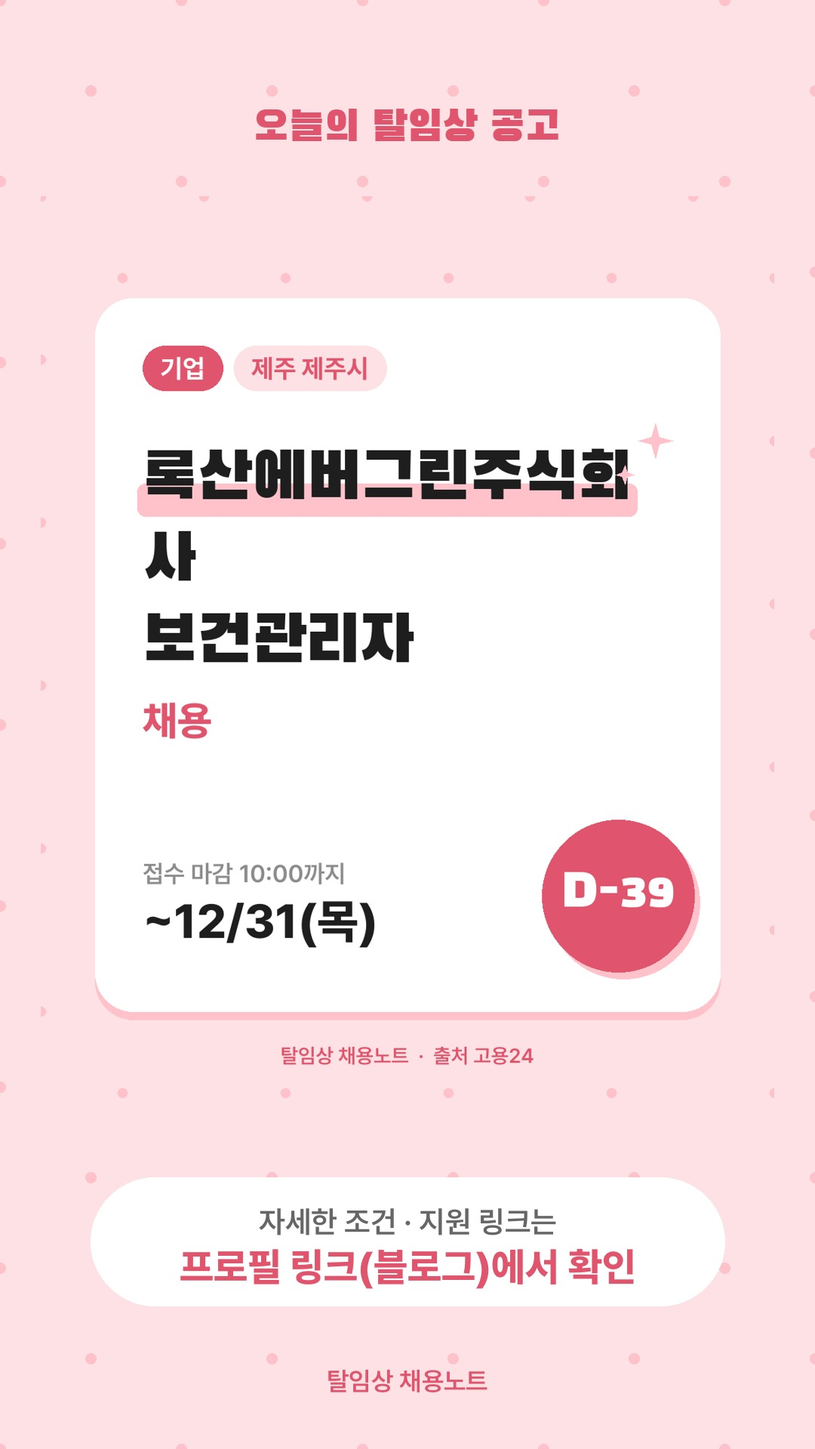
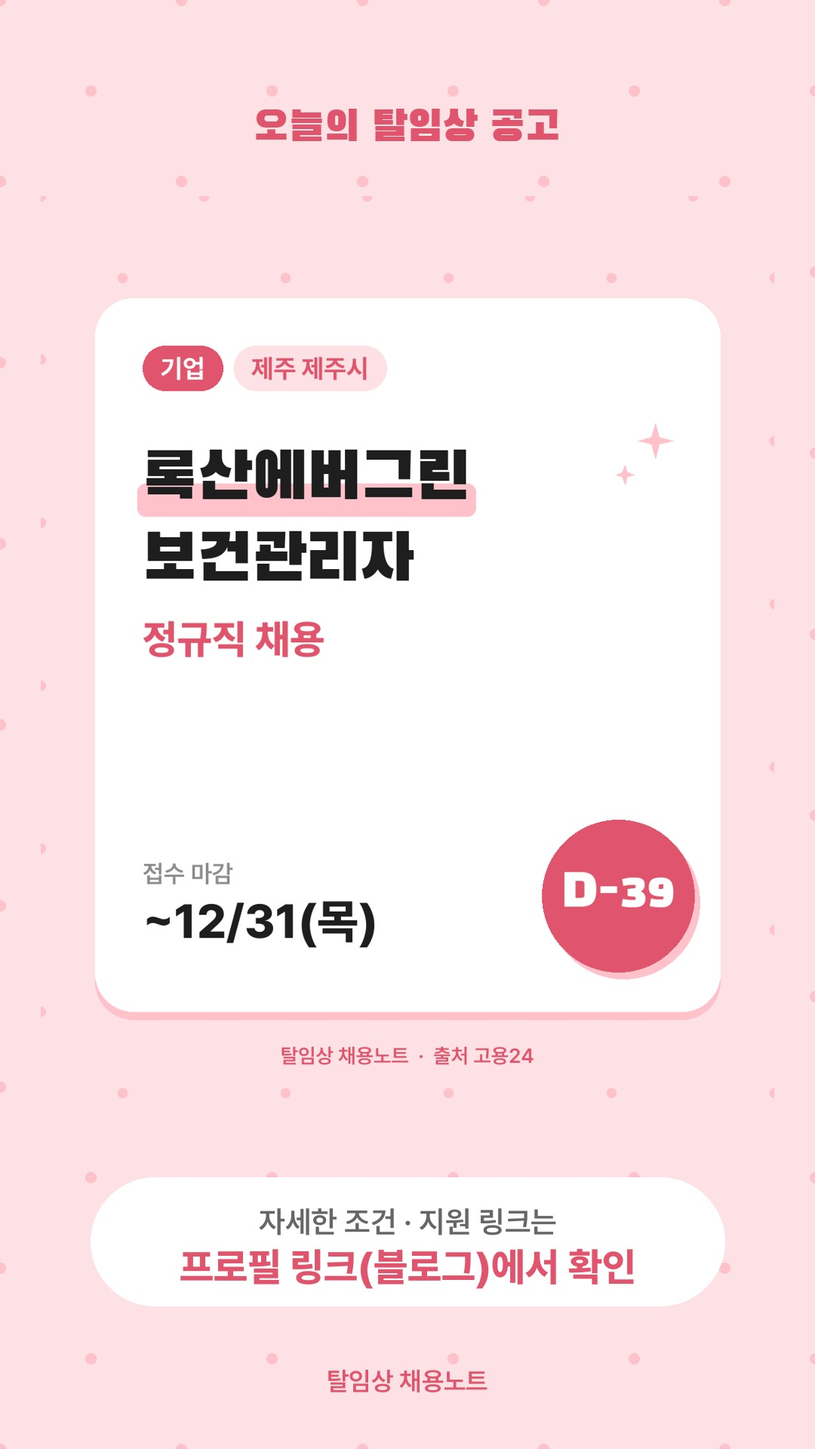
11/22 고용24 공고 상세(고용형태·근무·복지) 반영, 사람인 직접 링크, 썸네일 줄바꿈·기업명 정리, 고용형태 자동 수집
Claude-Session: https://claude.ai/code/session_015ozFBvjxcWAyqLYfTbBGCZ

Changed region(s): [[0.1833, 0.3438, 0.5194, 0.5312], [0.5806, 0.3125, 0.7944, 0.375], [0.3056, 0.5938, 0.4278, 0.625]]

diff --git a/docs/2026-11-22/index.html b/docs/2026-11-22/index.html
@@ -21,7 +21,7 @@ a{color:var(--accent)}ul.days{padding-left:1.2em}
 <h2>📝 오늘 올릴 블로그 글 5개</h2>
 <div class="box"><div class="row"><b>글 1. (사)대한산업보건협회 광주전남지역본부 · 보건관리 간호사</b>
 <span class="muted">카테고리: 탈임상 채용공고 &gt; 산업간호사·기업</span></div>
-<div class="row" style="margin-top:8px"><pre id="pt1" style="flex:1;margin:0">(~11/25) 대한산업보건협회 광주전남지역본부 광주 보건관리국 보건관리 간호사 채용</pre>
+<div class="row" style="margin-top:8px"><pre id="pt1" style="flex:1;margin:0">(~11/25) 대한산업보건협회 광주전남지역본부 광주 보건관리국 보건관리 간호사 계약직 채용</pre>
 <button onclick="copyText('pt1',this)">제목 복사</button></div>
 <details open><summary class="muted" style="margin:10px 0;cursor:pointer">본문 미리보기 (접기)</summary>
 <div id="pb1" class="post"><p>경력무관으로 지원할 수 있는 보건관리 대행기관 간호사 자리입니다. 대한산업보건협회 광주전남지역본부 보건관리국에서 근무합니다.</p><p>&nbsp;</p>
@@ -29,16 +29,19 @@ a{color:var(--accent)}ul.days{padding-left:1.2em}
 <table border="1" cellpadding="8" style="border-collapse:collapse;width:100%">
 <tr><td style="width:30%;background:#f5f5f5"><b>기관</b></td><td>대한산업보건협회 광주전남지역본부</td></tr>
 <tr><td style="width:30%;background:#f5f5f5"><b>부서 · 직무</b></td><td>광주 보건관리국 보건관리 간호사</td></tr>
+<tr><td style="width:30%;background:#f5f5f5"><b>고용 형태</b></td><td>계약직</td></tr>
 <tr><td style="width:30%;background:#f5f5f5"><b>근무지</b></td><td>전남 광산구</td></tr>
 <tr><td style="width:30%;background:#f5f5f5"><b>학력</b></td><td>대졸(2~3년) 이상</td></tr>
 <tr><td style="width:30%;background:#f5f5f5"><b>급여</b></td><td>공고문 확인 필요 (기관 내규)</td></tr>
-<tr><td style="width:30%;background:#f5f5f5"><b>근무 시간</b></td><td>주5일</td></tr>
+<tr><td style="width:30%;background:#f5f5f5"><b>근무 시간</b></td><td>주 5일(월~금) 08:30~17:30</td></tr>
 <tr><td style="width:30%;background:#f5f5f5"><b>접수 기간</b></td><td>11월 18일 ~ 11월 25일 (D-3)</td></tr>
 </table><p>&nbsp;</p>
+<h2>🎁 복리후생</h2><ul><li>4대 보험</li></ul><p>&nbsp;</p>
 <h2>✅ 지원 자격</h2><ul><li>간호사 (경력무관)</li><li>대졸(2~3년) 이상</li></ul><p>&nbsp;</p>
 <h2>💡 한줄 TIP</h2><p>신규도 지원 가능한 보건관리 입문 자리. 11월 25일 마감으로 일정이 촉박.</p><p>&nbsp;</p>
 <h2>🔗 지원하기</h2><ul>
-<li><a href="https://www.work24.go.kr/wk/a/b/1500/empDetailAuthView.do?wantedAuthNo=55608183&amp;infoTypeCd=CSI&amp;infoTypeGroup=tb_workinfogubun">기관 채용 홈페이지에서 바로 지원</a></li>
+<li><a href="https://www.saramin.co.kr/zf_user/jobs/relay/view?rec_idx=55608183">기관 채용 홈페이지에서 바로 지원</a></li>
+<li>접수 방법: 사람인 공고에서 홈페이지 지원 (입사지원양식은 공고에서 다운로드), 11/25 마감</li>
 </ul><p>※ 공고 내용을 요약한 글입니다. 지원 전 원문 공고문을 꼭 확인하세요.</p><p>&nbsp;</p>
 <p>#대한산업보건협회광주전남지역본부채용 #간호사채용 #탈임상 #탈임상간호사 #대한산업보건협회 #보건관리대행 #광주간호사 #산업간호사 #보건관리자 #간호사이직</p></div></details>
 <div class="row"><span class="muted">네이버 글쓰기에 제목 → 본문 순서로 붙여넣으세요</span>
@@ -80,7 +83,7 @@ a{color:var(--accent)}ul.days{padding-left:1.2em}
 <div class="row" style="margin-top:10px;align-items:flex-start"><a href="thumb-02.png" download><img src="thumb-02.png" alt="썸네일 2" style="width:160px;border-radius:8px;border:1px solid var(--line)"></a>
 <span class="muted">썸네일: 이미지를 눌러 저장 후 글 맨 위에 넣으세요</span></div></div><div class="box"><div class="row"><b>글 3. 제일비에스㈜ · 보건관리자</b>
 <span class="muted">카테고리: 탈임상 채용공고 &gt; 산업간호사·기업</span></div>
-<div class="row" style="margin-top:8px"><pre id="pt3" style="flex:1;margin:0">(~12/18) 제일비에스 본사 보건관리자 채용</pre>
+<div class="row" style="margin-top:8px"><pre id="pt3" style="flex:1;margin:0">(~12/18) 제일비에스 본사 보건관리자 정규직 채용</pre>
 <button onclick="copyText('pt3',this)">제목 복사</button></div>
 <details open><summary class="muted" style="margin:10px 0;cursor:pointer">본문 미리보기 (접기)</summary>
 <div id="pb3" class="post"><p>서울 서초구 본사에서 근무하는 보건관리자 공고입니다. 경력 1년 이상이면 학력 제한 없이 지원할 수 있습니다.</p><p>&nbsp;</p>
@@ -88,16 +91,19 @@ a{color:var(--accent)}ul.days{padding-left:1.2em}
 <table border="1" cellpadding="8" style="border-collapse:collapse;width:100%">
 <tr><td style="width:30%;background:#f5f5f5"><b>기관</b></td><td>제일비에스</td></tr>
 <tr><td style="width:30%;background:#f5f5f5"><b>부서 · 직무</b></td><td>본사 보건관리자</td></tr>
-<tr><td style="width:30%;background:#f5f5f5"><b>근무지</b></td><td>서울 서초구</td></tr>
+<tr><td style="width:30%;background:#f5f5f5"><b>고용 형태</b></td><td>정규직</td></tr>
+<tr><td style="width:30%;background:#f5f5f5"><b>근무지</b></td><td>서울 서초구 논현로 171 (양재역 도보 10분)</td></tr>
 <tr><td style="width:30%;background:#f5f5f5"><b>학력</b></td><td>학력무관</td></tr>
 <tr><td style="width:30%;background:#f5f5f5"><b>급여</b></td><td>공고문 확인 필요 (기관 내규)</td></tr>
-<tr><td style="width:30%;background:#f5f5f5"><b>근무 시간</b></td><td>주5일</td></tr>
+<tr><td style="width:30%;background:#f5f5f5"><b>근무 시간</b></td><td>주 5일 근무</td></tr>
 <tr><td style="width:30%;background:#f5f5f5"><b>접수 기간</b></td><td>11월 18일 ~ 12월 18일 (D-26)</td></tr>
 </table><p>&nbsp;</p>
+<h2>🎁 복리후생</h2><ul><li>경조휴가·경조금</li><li>자유로운 휴가문화·유연근무제</li><li>명절선물/명절상여</li><li>업무활동비·통신비 지원</li><li>장기근속 포상</li><li>자격증 취득 지원</li></ul><p>&nbsp;</p>
 <h2>✅ 지원 자격</h2><ul><li>경력 1년 이상 (세부 요건은 고용24 공고 확인)</li><li>학력무관</li></ul><p>&nbsp;</p>
 <h2>💡 한줄 TIP</h2><p>서울 도심 본사 근무를 원하는 경력 1년 이상에게 추천. 급여는 회사내규.</p><p>&nbsp;</p>
 <h2>🔗 지원하기</h2><ul>
 <li><a href="https://www.work24.go.kr/wk/a/b/1500/empDetailAuthView.do?wantedAuthNo=51969656&amp;infoTypeCd=CJK&amp;infoTypeGroup=tb_workinfogubun">기관 채용 홈페이지에서 바로 지원</a></li>
+<li>접수 방법: 잡코리아 온라인 지원 (이력서·자기소개서), 12/18 마감</li>
 </ul><p>※ 공고 내용을 요약한 글입니다. 지원 전 원문 공고문을 꼭 확인하세요.</p><p>&nbsp;</p>
 <p>#제일비에스채용 #간호사채용 #탈임상 #탈임상간호사 #보건관리자 #서울보건관리자 #산업간호사 #본사근무 #간호사이직</p></div></details>
 <div class="row"><span class="muted">네이버 글쓰기에 제목 → 본문 순서로 붙여넣으세요</span>
@@ -107,25 +113,27 @@ a{color:var(--accent)}ul.days{padding-left:1.2em}
 <div class="row" style="margin-top:10px;align-items:flex-start"><a href="thumb-03.png" download><img src="thumb-03.png" alt="썸네일 3" style="width:160px;border-radius:8px;border:1px solid var(--line)"></a>
 <span class="muted">썸네일: 이미지를 눌러 저장 후 글 맨 위에 넣으세요</span></div></div><div class="box"><div class="row"><b>글 4. ㈜케이티씨에스 · 보건관리자</b>
 <span class="muted">카테고리: 탈임상 채용공고 &gt; 산업간호사·기업</span></div>
-<div class="row" style="margin-top:8px"><pre id="pt4" style="flex:1;margin:0">(~12/19) 케이티씨에스 LG전자매니저운영센터 보건관리자 계약직 채용</pre>
+<div class="row" style="margin-top:8px"><pre id="pt4" style="flex:1;margin:0">(~12/19) 케이티씨에스 LG전자 매니저운영센터 보건관리자 계약직 채용</pre>
 <button onclick="copyText('pt4',this)">제목 복사</button></div>
 <details open><summary class="muted" style="margin:10px 0;cursor:pointer">본문 미리보기 (접기)</summary>
 <div id="pb4" class="post"><p>대기업 계열사 소속으로 6개월간 보건관리자 경력을 쌓을 수 있는 자리입니다. 서울 강서구 LG전자매니저운영센터에서 근무합니다.</p><p>&nbsp;</p>
 <h2>📌 채용 개요</h2>
 <table border="1" cellpadding="8" style="border-collapse:collapse;width:100%">
 <tr><td style="width:30%;background:#f5f5f5"><b>기관</b></td><td>케이티씨에스</td></tr>
-<tr><td style="width:30%;background:#f5f5f5"><b>부서 · 직무</b></td><td>LG전자매니저운영센터 보건관리자</td></tr>
-<tr><td style="width:30%;background:#f5f5f5"><b>고용 형태</b></td><td>공고문 확인 필요 (6개월 (계약직))</td></tr>
+<tr><td style="width:30%;background:#f5f5f5"><b>부서 · 직무</b></td><td>LG전자 매니저운영센터 보건관리자</td></tr>
+<tr><td style="width:30%;background:#f5f5f5"><b>고용 형태</b></td><td>계약직(6개월) (6개월 (계약직))</td></tr>
 <tr><td style="width:30%;background:#f5f5f5"><b>근무지</b></td><td>서울 강서구</td></tr>
 <tr><td style="width:30%;background:#f5f5f5"><b>학력</b></td><td>학력무관</td></tr>
 <tr><td style="width:30%;background:#f5f5f5"><b>급여</b></td><td>공고문 확인 필요 (기관 내규)</td></tr>
-<tr><td style="width:30%;background:#f5f5f5"><b>근무 시간</b></td><td>주5일</td></tr>
+<tr><td style="width:30%;background:#f5f5f5"><b>근무 시간</b></td><td>주 5일 근무</td></tr>
 <tr><td style="width:30%;background:#f5f5f5"><b>접수 기간</b></td><td>11월 19일 ~ 12월 19일 (D-27)</td></tr>
 </table><p>&nbsp;</p>
+<h2>🎁 복리후생</h2><ul><li>4대 보험</li><li>경조휴가·경조금</li><li>반차·보건휴가·연차</li><li>주 5일제</li></ul><p>&nbsp;</p>
 <h2>✅ 지원 자격</h2><ul><li>경력직 (세부 요건은 고용24 공고 확인)</li><li>학력무관</li></ul><p>&nbsp;</p>
 <h2>💡 한줄 TIP</h2><p>짧게 보건관리자 경력을 만들려는 경력직에게 적합. 6개월 계약직.</p><p>&nbsp;</p>
 <h2>🔗 지원하기</h2><ul>
 <li><a href="https://www.work24.go.kr/wk/a/b/1500/empDetailAuthView.do?wantedAuthNo=51974659&amp;infoTypeCd=CJK&amp;infoTypeGroup=tb_workinfogubun">기관 채용 홈페이지에서 바로 지원</a></li>
+<li>접수 방법: 이메일·홈페이지 지원 (이력서·자기소개서), 12/19 마감</li>
 </ul><p>※ 공고 내용을 요약한 글입니다. 지원 전 원문 공고문을 꼭 확인하세요.</p><p>&nbsp;</p>
 <p>#케이티씨에스채용 #간호사채용 #탈임상 #탈임상간호사 #ktcs채용 #보건관리자 #서울보건관리자 #계약직 #산업간호사 #간호사이직</p></div></details>
 <div class="row"><span class="muted">네이버 글쓰기에 제목 → 본문 순서로 붙여넣으세요</span>
@@ -135,34 +143,35 @@ a{color:var(--accent)}ul.days{padding-left:1.2em}
 <div class="row" style="margin-top:10px;align-items:flex-start"><a href="thumb-04.png" download><img src="thumb-04.png" alt="썸네일 4" style="width:160px;border-radius:8px;border:1px solid var(--line)"></a>
 <span class="muted">썸네일: 이미지를 눌러 저장 후 글 맨 위에 넣으세요</span></div></div><div class="box"><div class="row"><b>글 5. 록산에버그린주식회사 · 보건관리자</b>
 <span class="muted">카테고리: 탈임상 채용공고 &gt; 산업간호사·기업</span></div>
-<div class="row" style="margin-top:8px"><pre id="pt5" style="flex:1;margin:0">(~12/31) 록산에버그린주식회사 보건관리자 채용</pre>
+<div class="row" style="margin-top:8px"><pre id="pt5" style="flex:1;margin:0">(~12/31) 록산에버그린 보건관리자 정규직 채용</pre>
 <button onclick="copyText('pt5',this)">제목 복사</button></div>
 <details open><summary class="muted" style="margin:10px 0;cursor:pointer">본문 미리보기 (접기)</summary>
 <div id="pb5" class="post"><p>제주에서 정규직 보건관리자로 산업간호 경력을 시작할 수 있는 자리입니다. 임상 1년 이상이면 지원 가능하고 월 280만원 이상이 제시됐습니다.</p><p>&nbsp;</p>
 <h2>📌 채용 개요</h2>
 <table border="1" cellpadding="8" style="border-collapse:collapse;width:100%">
-<tr><td style="width:30%;background:#f5f5f5"><b>기관</b></td><td>록산에버그린주식회사</td></tr>
+<tr><td style="width:30%;background:#f5f5f5"><b>기관</b></td><td>록산에버그린</td></tr>
 <tr><td style="width:30%;background:#f5f5f5"><b>부서 · 직무</b></td><td>보건관리자</td></tr>
 <tr><td style="width:30%;background:#f5f5f5"><b>채용 인원</b></td><td>1명</td></tr>
-<tr><td style="width:30%;background:#f5f5f5"><b>근무지</b></td><td>제주특별자치도 제주시 노연로 12, 드림타워 (노형동)</td></tr>
+<tr><td style="width:30%;background:#f5f5f5"><b>고용 형태</b></td><td>정규직</td></tr>
+<tr><td style="width:30%;background:#f5f5f5"><b>근무지</b></td><td>제주특별자치도 제주시 노연로 12, 드림타워</td></tr>
 <tr><td style="width:30%;background:#f5f5f5"><b>학력</b></td><td>학력무관</td></tr>
 <tr><td style="width:30%;background:#f5f5f5"><b>급여</b></td><td>월 280만원 이상</td></tr>
-<tr><td style="width:30%;background:#f5f5f5"><b>근무 시간</b></td><td>주5일 09:00~18:00 (주 40시간)</td></tr>
-<tr><td style="width:30%;background:#f5f5f5"><b>접수 기간</b></td><td>11월 19일 ~ 12월 31일 10:00 (D-39)</td></tr>
+<tr><td style="width:30%;background:#f5f5f5"><b>근무 시간</b></td><td>주 5일 09:00~18:00 (주 40시간)</td></tr>
+<tr><td style="width:30%;background:#f5f5f5"><b>접수 기간</b></td><td>11월 19일 ~ 12월 31일 (D-39)</td></tr>
 </table><p>&nbsp;</p>
 <h2>💰 급여</h2><ul><li>월급 280만원 이상</li><li>퇴직연금</li><li>4대보험 가입</li><li>통근버스·기숙사·식사 미제공</li></ul><p>&nbsp;</p>
-<h2>🎁 복리후생</h2><ul><li>4대보험</li><li>퇴직연금</li></ul><p>&nbsp;</p>
+<h2>🎁 복리후생</h2><ul><li>4대보험</li><li>퇴직연금</li><li>4대 보험</li></ul><p>&nbsp;</p>
 <h2>✅ 지원 자격</h2><ul><li>간호사 면허 (필수)</li><li>경력 1년 이상</li><li>학력무관</li></ul><p>&nbsp;</p>
-<h2>📎 직무내용</h2><ul><li>산업안전보건법 시행령에 따른 보건관리자 업무</li><li>직무 스트레스 및 뇌심혈관계질환 예방 관리</li><li>응급처치 및 의약품 관리</li></ul><p>&nbsp;</p>
+<h2>📎 직무내용</h2><ul><li>산업안전보건법 시행령에 따른 보건관리자 업무</li><li>직무 스트레스·뇌심혈관계질환 예방 관리</li><li>응급처치 및 의약품 관리</li></ul><p>&nbsp;</p>
 <h2>🧭 전형 절차</h2><ol><li>서류 → 면접</li></ol><p>&nbsp;</p>
 <h2>💡 한줄 TIP</h2><p>제주 정착을 고려하는 임상 1년 차 이상에게 적합. 식사·기숙사 미제공.</p><p>&nbsp;</p>
 <h2>🔗 지원하기</h2><ul>
 <li><a href="https://www.work24.go.kr/wk/a/b/1500/empDetailAuthView.do?wantedAuthNo=K163012611190022&amp;infoTypeCd=VALIDATION&amp;infoTypeGroup=tb_workinfoworknet">기관 채용 홈페이지에서 바로 지원</a></li>
 </ul><p>※ 공고 내용을 요약한 글입니다. 지원 전 원문 공고문을 꼭 확인하세요.</p><p>&nbsp;</p>
-<p>#록산에버그린주식회사채용 #간호사채용 #탈임상 #탈임상간호사 #제주드림타워채용 #보건관리자 #산업간호사 #제주간호사 #정규직 #간호사이직</p></div></details>
+<p>#록산에버그린채용 #간호사채용 #탈임상 #탈임상간호사 #제주드림타워채용 #보건관리자 #산업간호사 #제주간호사 #정규직 #간호사이직</p></div></details>
 <div class="row"><span class="muted">네이버 글쓰기에 제목 → 본문 순서로 붙여넣으세요</span>
 <button onclick="copyHtml('pb5',this)">본문 복사</button></div>
-<div class="row" style="margin-top:10px"><pre id="tg5" style="flex:1;margin:0">#록산에버그린주식회사채용 #간호사채용 #탈임상 #탈임상간호사 #제주드림타워채용 #보건관리자 #산업간호사 #제주간호사 #정규직 #간호사이직</pre>
+<div class="row" style="margin-top:10px"><pre id="tg5" style="flex:1;margin:0">#록산에버그린채용 #간호사채용 #탈임상 #탈임상간호사 #제주드림타워채용 #보건관리자 #산업간호사 #제주간호사 #정규직 #간호사이직</pre>
 <button onclick="copyText('tg5',this)">태그 복사</button></div>
 <div class="row" style="margin-top:10px;align-items:flex-start"><a href="thumb-05.png" download><img src="thumb-05.png" alt="썸네일 5" style="width:160px;border-radius:8px;border:1px solid var(--line)"></a>
 <span class="muted">썸네일: 이미지를 눌러 저장 후 글 맨 위에 넣으세요</span></div></div>
@@ -178,11 +187,11 @@ a{color:var(--accent)}ul.days{padding-left:1.2em}
 <h2>🏭 산업간호사·기업 (5건)</h2>
 <table border="1" cellpadding="8" style="border-collapse:collapse;width:100%">
 <tr style="background:#f5f5f5"><td><b>마감</b></td><td><b>기관 · 직무</b></td><td><b>근무지</b></td></tr>
-<tr><td>11/25 (D-3)</td><td><a href="https://www.work24.go.kr/wk/a/b/1500/empDetailAuthView.do?wantedAuthNo=55608183&amp;infoTypeCd=CSI&amp;infoTypeGroup=tb_workinfogubun">대한산업보건협회 광주전남지역본부</a><br>광주 보건관리국 보건관리 간호사</td><td>전남 광산구</td></tr>
+<tr><td>11/25 (D-3)</td><td><a href="https://www.saramin.co.kr/zf_user/jobs/relay/view?rec_idx=55608183">대한산업보건협회 광주전남지역본부</a><br>광주 보건관리국 보건관리 간호사</td><td>전남 광산구</td></tr>
 <tr><td>11/25 (D-3)</td><td><a href="https://job.alio.go.kr/recruitview.do?idx=306861">대한적십자사</a><br>인천적십자병원 심사실 보험심사 간호사</td><td>인천 연수구</td></tr>
 <tr><td>12/18 (D-26)</td><td><a href="https://www.work24.go.kr/wk/a/b/1500/empDetailAuthView.do?wantedAuthNo=51969656&amp;infoTypeCd=CJK&amp;infoTypeGroup=tb_workinfogubun">제일비에스</a><br>본사 보건관리자</td><td>서울 서초구</td></tr>
-<tr><td>12/19 (D-27)</td><td><a href="https://www.work24.go.kr/wk/a/b/1500/empDetailAuthView.do?wantedAuthNo=51974659&amp;infoTypeCd=CJK&amp;infoTypeGroup=tb_workinfogubun">케이티씨에스</a><br>LG전자매니저운영센터 보건관리자</td><td>서울 강서구</td></tr>
-<tr><td>12/31 (D-39)</td><td><a href="https://www.work24.go.kr/wk/a/b/1500/empDetailAuthView.do?wantedAuthNo=K163012611190022&amp;infoTypeCd=VALIDATION&amp;infoTypeGroup=tb_workinfoworknet">록산에버그린주식회사</a><br>보건관리자</td><td>제주 제주시</td></tr>
+<tr><td>12/19 (D-27)</td><td><a href="https://www.work24.go.kr/wk/a/b/1500/empDetailAuthView.do?wantedAuthNo=51974659&amp;infoTypeCd=CJK&amp;infoTypeGroup=tb_workinfogubun">케이티씨에스</a><br>LG전자 매니저운영센터 보건관리자</td><td>서울 강서구</td></tr>
+<tr><td>12/31 (D-39)</td><td><a href="https://www.work24.go.kr/wk/a/b/1500/empDetailAuthView.do?wantedAuthNo=K163012611190022&amp;infoTypeCd=VALIDATION&amp;infoTypeGroup=tb_workinfoworknet">록산에버그린</a><br>보건관리자</td><td>제주 제주시</td></tr>
 </table><p>&nbsp;</p>
 <h2>🏛 공공기관·공기업 (30건)</h2>
 <table border="1" cellpadding="8" style="border-collapse:collapse;width:100%">
@@ -262,13 +271,13 @@ a{color:var(--accent)}ul.days{padding-left:1.2em}
 #탈임상 #탈임상간호사 #간호사채용 #간호사이직 #간호사취업 #보건관리자 #보험심사간호사 #보건소간호사 #CRC #간호사채용공고</pre><button onclick="copyText('rcap',this)">캡션 복사</button></div>
 <div class="box"><b>스토리: 오늘 공고</b> <span class="muted">(링크 스티커로 블로그 글 연결)</span>
 <div style="display:flex;flex-wrap:wrap;margin-top:8px"><a href="story-01.jpg" download><img src="story-01.jpg" style="width:110px;border-radius:8px;border:1px solid var(--line);margin:0 6px 6px 0"></a><a href="story-02.jpg" download><img src="story-02.jpg" style="width:110px;border-radius:8px;border:1px solid var(--line);margin:0 6px 6px 0"></a><a href="story-03.jpg" download><img src="story-03.jpg" style="width:110px;border-radius:8px;border:1px solid var(--line);margin:0 6px 6px 0"></a><a href="story-04.jpg" download><img src="story-04.jpg" style="width:110px;border-radius:8px;border:1px solid var(--line);margin:0 6px 6px 0"></a><a href="story-05.jpg" download><img src="story-05.jpg" style="width:110px;border-radius:8px;border:1px solid var(--line);margin:0 6px 6px 0"></a></div></div>
-<details><summary class='muted' style='cursor:pointer'>공고별 카드뉴스(예전 형식, 필요할 때만)</summary><div class="box"><div style="display:flex;flex-wrap:wrap"><a href="ig-01-1.jpg" download><img src="ig-01-1.jpg" alt="인스타 1-1" style="width:150px;border-radius:8px;border:1px solid var(--line);margin:0 6px 6px 0"></a><a href="ig-01-2.jpg" download><img src="ig-01-2.jpg" alt="인스타 1-2" style="width:150px;border-radius:8px;border:1px solid var(--line);margin:0 6px 6px 0"></a><a href="ig-01-3.jpg" download><img src="ig-01-3.jpg" alt="인스타 1-3" style="width:150px;border-radius:8px;border:1px solid var(--line);margin:0 6px 6px 0"></a></div>
-<div><b>인스타 1. (사)대한산업보건협회 광주전남지역본부</b> <span class="muted">(3장 · 순서대로 올리세요)</span>
-<pre id="ic1" style="margin:8px 0">📌 대한산업보건협회 광주전남지역본부 광주 보건관리국 보건관리 간호사 채용
+<details><summary class='muted' style='cursor:pointer'>공고별 카드뉴스(예전 형식, 필요할 때만)</summary><div class="box"><div style="display:flex;flex-wrap:wrap"><a href="ig-01-1.jpg" download><img src="ig-01-1.jpg" alt="인스타 1-1" style="width:150px;border-radius:8px;border:1px solid var(--line);margin:0 6px 6px 0"></a><a href="ig-01-2.jpg" download><img src="ig-01-2.jpg" alt="인스타 1-2" style="width:150px;border-radius:8px;border:1px solid var(--line);margin:0 6px 6px 0"></a><a href="ig-01-3.jpg" download><img src="ig-01-3.jpg" alt="인스타 1-3" style="width:150px;border-radius:8px;border:1px solid var(--line);margin:0 6px 6px 0"></a><a href="ig-01-4.jpg" download><img src="ig-01-4.jpg" alt="인스타 1-4" style="width:150px;border-radius:8px;border:1px solid var(--line);margin:0 6px 6px 0"></a></div>
+<div><b>인스타 1. (사)대한산업보건협회 광주전남지역본부</b> <span class="muted">(4장 · 순서대로 올리세요)</span>
+<pre id="ic1" style="margin:8px 0">📌 대한산업보건협회 광주전남지역본부 광주 보건관리국 보건관리 간호사 계약직 채용
 
 📍 근무지: 전남 광산구
 ⏰ 마감: 11/25까지 (D-3)
-🕘 근무: 주5일
+🕘 근무: 주 5일(월~금) 08:30~17:30
 ✅ 자격: 간호사 면허 / 경력무관
 
 💡 신규도 지원 가능한 보건관리 입문 자리. 11월 25일 마감으로 일정이 촉박.
@@ -293,13 +302,13 @@ a{color:var(--accent)}ul.days{padding-left:1.2em}
 💾 저장해두고 마감 체크
 
 #탈임상 #탈임상간호사 #간호사채용 #간호사이직 #간호사취업 #고양시채용 #일산서구보건소 #치매안심센터 #임기제공무원 #경기간호사</pre>
-<button onclick="copyText('ic2',this)">캡션 복사</button></div></div><div class="box"><div style="display:flex;flex-wrap:wrap"><a href="ig-03-1.jpg" download><img src="ig-03-1.jpg" alt="인스타 3-1" style="width:150px;border-radius:8px;border:1px solid var(--line);margin:0 6px 6px 0"></a><a href="ig-03-2.jpg" download><img src="ig-03-2.jpg" alt="인스타 3-2" style="width:150px;border-radius:8px;border:1px solid var(--line);margin:0 6px 6px 0"></a><a href="ig-03-3.jpg" download><img src="ig-03-3.jpg" alt="인스타 3-3" style="width:150px;border-radius:8px;border:1px solid var(--line);margin:0 6px 6px 0"></a></div>
-<div><b>인스타 3. 제일비에스㈜</b> <span class="muted">(3장 · 순서대로 올리세요)</span>
-<pre id="ic3" style="margin:8px 0">📌 제일비에스 본사 보건관리자 채용
+<button onclick="copyText('ic2',this)">캡션 복사</button></div></div><div class="box"><div style="display:flex;flex-wrap:wrap"><a href="ig-03-1.jpg" download><img src="ig-03-1.jpg" alt="인스타 3-1" style="width:150px;border-radius:8px;border:1px solid var(--line);margin:0 6px 6px 0"></a><a href="ig-03-2.jpg" download><img src="ig-03-2.jpg" alt="인스타 3-2" style="width:150px;border-radius:8px;border:1px solid var(--line);margin:0 6px 6px 0"></a><a href="ig-03-3.jpg" download><img src="ig-03-3.jpg" alt="인스타 3-3" style="width:150px;border-radius:8px;border:1px solid var(--line);margin:0 6px 6px 0"></a><a href="ig-03-4.jpg" download><img src="ig-03-4.jpg" alt="인스타 3-4" style="width:150px;border-radius:8px;border:1px solid var(--line);margin:0 6px 6px 0"></a></div>
+<div><b>인스타 3. 제일비에스㈜</b> <span class="muted">(4장 · 순서대로 올리세요)</span>
+<pre id="ic3" style="margin:8px 0">📌 제일비에스 본사 보건관리자 정규직 채용
 
 📍 근무지: 서울 서초구
 ⏰ 마감: 12/18까지 (D-26)
-🕘 근무: 주5일
+🕘 근무: 주 5일 근무
 ✅ 자격: 경력 1년 이상 / 학력무관
 
 💡 서울 도심 본사 근무를 원하는 경력 1년 이상에게 추천. 급여는 회사내규.
@@ -310,11 +319,11 @@ a{color:var(--accent)}ul.days{padding-left:1.2em}
 #탈임상 #탈임상간호사 #간호사채용 #간호사이직 #간호사취업 #제일비에스채용 #보건관리자 #서울보건관리자 #산업간호사 #본사근무</pre>
 <button onclick="copyText('ic3',this)">캡션 복사</button></div></div><div class="box"><div style="display:flex;flex-wrap:wrap"><a href="ig-04-1.jpg" download><img src="ig-04-1.jpg" alt="인스타 4-1" style="width:150px;border-radius:8px;border:1px solid var(--line);margin:0 6px 6px 0"></a><a href="ig-04-2.jpg" download><img src="ig-04-2.jpg" alt="인스타 4-2" style="width:150px;border-radius:8px;border:1px solid var(--line);margin:0 6px 6px 0"></a><a href="ig-04-3.jpg" download><img src="ig-04-3.jpg" alt="인스타 4-3" style="width:150px;border-radius:8px;border:1px solid var(--line);margin:0 6px 6px 0"></a><a href="ig-04-4.jpg" download><img src="ig-04-4.jpg" alt="인스타 4-4" style="width:150px;border-radius:8px;border:1px solid var(--line);margin:0 6px 6px 0"></a></div>
 <div><b>인스타 4. ㈜케이티씨에스</b> <span class="muted">(4장 · 순서대로 올리세요)</span>
-<pre id="ic4" style="margin:8px 0">📌 케이티씨에스 LG전자매니저운영센터 보건관리자 계약직 채용
+<pre id="ic4" style="margin:8px 0">📌 케이티씨에스 LG전자 매니저운영센터 보건관리자 계약직 채용
 
 📍 근무지: 서울 강서구
 ⏰ 마감: 12/19까지 (D-27)
-🕘 근무: 주5일
+🕘 근무: 주 5일 근무
 ✅ 자격: 경력직 / 학력무관
 
 💡 짧게 보건관리자 경력을 만들려는 경력직에게 적합. 6개월 계약직.
@@ -325,12 +334,12 @@ a{color:var(--accent)}ul.days{padding-left:1.2em}
 #탈임상 #탈임상간호사 #간호사채용 #간호사이직 #간호사취업 #ktcs채용 #보건관리자 #서울보건관리자 #계약직 #산업간호사</pre>
 <button onclick="copyText('ic4',this)">캡션 복사</button></div></div><div class="box"><div style="display:flex;flex-wrap:wrap"><a href="ig-05-1.jpg" download><img src="ig-05-1.jpg" alt="인스타 5-1" style="width:150px;border-radius:8px;border:1px solid var(--line);margin:0 6px 6px 0"></a><a href="ig-05-2.jpg" download><img src="ig-05-2.jpg" alt="인스타 5-2" style="width:150px;border-radius:8px;border:1px solid var(--line);margin:0 6px 6px 0"></a><a href="ig-05-3.jpg" download><img src="ig-05-3.jpg" alt="인스타 5-3" style="width:150px;border-radius:8px;border:1px solid var(--line);margin:0 6px 6px 0"></a><a href="ig-05-4.jpg" download><img src="ig-05-4.jpg" alt="인스타 5-4" style="width:150px;border-radius:8px;border:1px solid var(--line);margin:0 6px 6px 0"></a><a href="ig-05-5.jpg" download><img src="ig-05-5.jpg" alt="인스타 5-5" style="width:150px;border-radius:8px;border:1px solid var(--line);margin:0 6px 6px 0"></a></div>
 <div><b>인스타 5. 록산에버그린주식회사</b> <span class="muted">(5장 · 순서대로 올리세요)</span>
-<pre id="ic5" style="margin:8px 0">📌 록산에버그린주식회사 보건관리자 채용
+<pre id="ic5" style="margin:8px 0">📌 록산에버그린 보건관리자 정규직 채용
 
 📍 근무지: 제주 제주시
-⏰ 마감: 12/31 10:00까지 (D-39)
+⏰ 마감: 12/31까지 (D-39)
 💰 급여: 월 280만원 이상
-🕘 근무: 주5일 09:00~18:00 (주 40시간)
+🕘 근무: 주 5일 09:00~18:00 (주 40시간)
 ✅ 자격: 간호사 면허 / 경력 1년 이상
 
 💡 제주 정착을 고려하는 임상 1년 차 이상에게 적합. 식사·기숙사 미제공.

diff --git a/src/sources/work24.py b/src/sources/work24.py
@@ -120,10 +120,12 @@ def fetch(days: int = 3, pages: int = 3, max_detail: int = 40) -> list[Job]:
             after = text.split(r["title"][:15], 1)[-1]
             after = re.sub(r"채용시까지|채용시", " ", after)
             loc = re.search(r"(서울|경기|인천|부산|대구|광주|대전|울산|세종|강원|충북|충남|충청|전북|전남|전라|경북|경남|경상|제주)\S*\s+(\S+[시군구])", after)
+            emp = re.search(r"고용\s*형태\s+(정규직|계약직|기간의 정함이 없는 근로계약|기간의 정함이 있는 근로계약|파견근로|시간\(선택\)제|인턴)", body)
+            emp_t = {"기간의 정함이 없는 근로계약": "정규직", "기간의 정함이 있는 근로계약": "계약직"}.get(emp.group(1), emp.group(1)) if emp else None
             jobs.append(Job(
                 source="work24", source_id=auth, title=r["title"][:150], url=url,
                 org=company, deadline=r["deadline"], start_date=r["posted"],
-                location=" ".join(loc.groups()) if loc else None, employment_type=None,
+                location=" ".join(loc.groups()) if loc else None, employment_type=emp_t,
                 raw_text=(r["title"] + " " + text + " " + body)[:3000],
                 extra={"list_text": text[:1500], "site_text": body[:8000], "detail_url": url,
                        "search_kw": r["kw"], "source_name": "고용24"},

diff --git a/src/render.py b/src/render.py
@@ -349,7 +349,8 @@ def _title_block(d: ImageDraw.ImageDraw, job: Job, X: int, y: int, maxw: int, bi
         lines: list[str] = []
         for sg in segs:
             lines += wrap(d, sg, ft, maxw, 3)
-        if len(lines) <= 4:
+        words_fit = all(d.textlength(w, font=ft) <= maxw for sg in segs for w in sg.split())   # 단어 중간에서 줄이 끊기지 않게
+        if len(lines) <= 4 and words_fit:
             break
     lines = lines[:4]
     for i, ln in enumerate(lines):

diff --git a/src/blog.py b/src/blog.py
@@ -35,7 +35,7 @@ def _md(d: date) -> str:
 
 
 def _org(job: Job) -> str:
-    return re.sub(r"^\((재|사|주)\)|\(주\)|㈜", "", job.org).strip()
+    return re.sub(r"\s+", " ", re.sub(r"^\((재|사|주)\)|\(주\)|㈜|주식회사", "", job.org)).strip()
 
 
 def _emp(job: Job) -> str:
